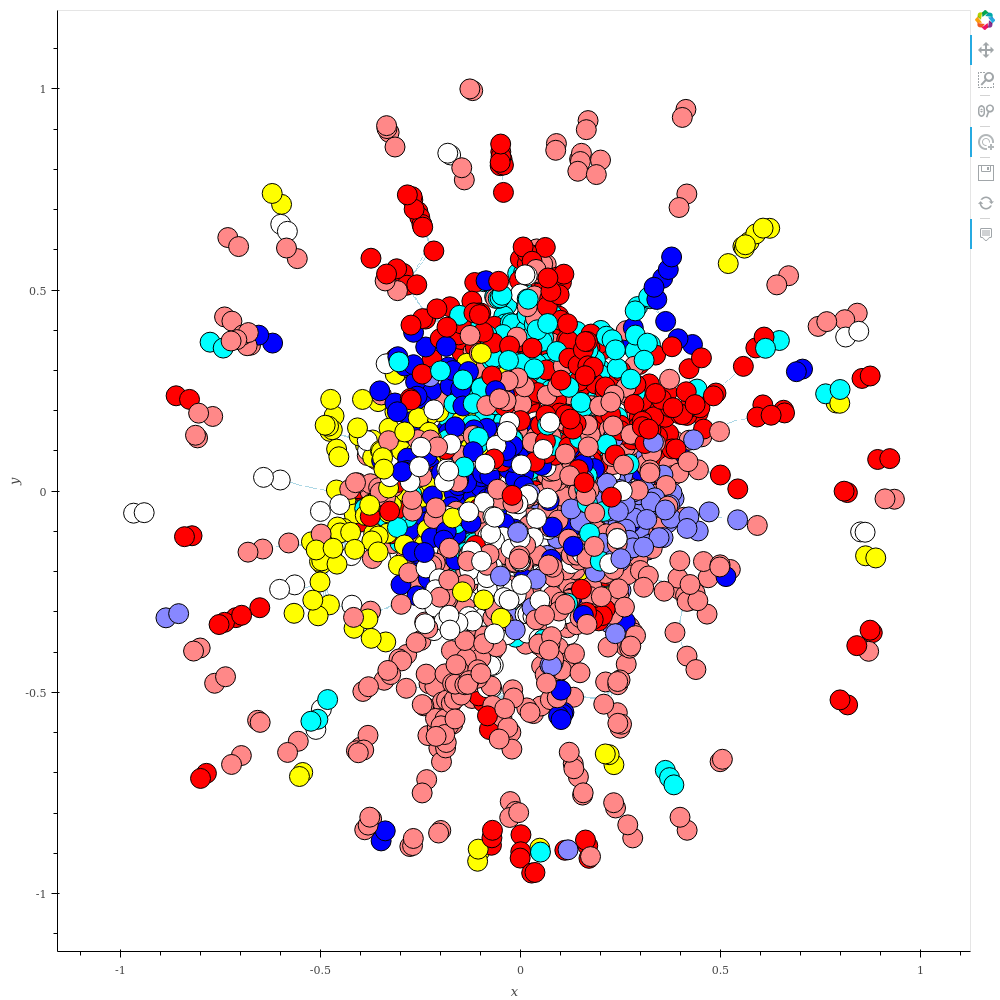
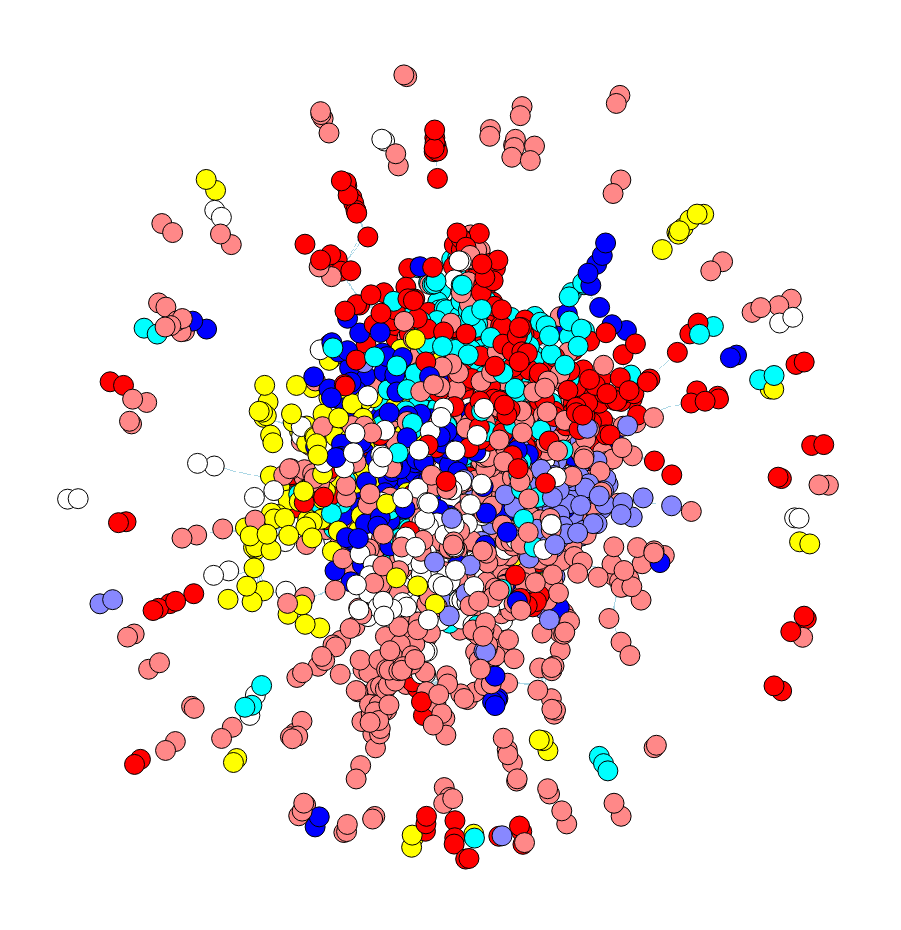
Updates dataset images and captions

diff --git a/final/introduction.tex b/final/introduction.tex
@@ -8,18 +8,24 @@ In a typical graph dataset, nodes have a set of features, called the \textit{fea
 
 \begin{figure}
 	\centering
-	\begin{subfigure}{0.4\textwidth} % width of left subfigure
+	\begin{subfigure}{0.32\textwidth} % width of left subfigure 
+		\includegraphics[width=\textwidth]{media/edges.png}
+		\caption{Visualization of the edges of the network.} % subcaption
+        \label{fig:dataset_edges}
+	\end{subfigure}
+	\vspace{1em} % here you can insert horizontal or vertical space
+	\begin{subfigure}{0.32\textwidth} % width of left subfigure
 		\includegraphics[width=\textwidth]{media/labels_only_train.png}
-		\caption{} % subcaption
+		\caption{Visualization of unlabled nodes in the network. It's clear that the vast majority of nodes are unlabled. This is the dataset our GCN will train on.} % subcaption
         \label{fig:dataset_all}
 	\end{subfigure}
 	\vspace{1em} % here you can insert horizontal or vertical space
-	\begin{subfigure}{0.4\textwidth} % width of right subfigure
+    \begin{subfigure}{0.32\textwidth} % width of right subfigure
 		\includegraphics[width=\textwidth]{media/labels_all.png}
-        \caption{} % subcaption
+        \caption{Visualization of the dataset with all labels. For our experiments, our dataset actually has all labels. We remove all but twenty labels per class for training to simulate the sparsity with which a "real-world" dataset would be labeled. We use all labels at test-time to evaluate the accuracy of our model.} % subcaption
         \label{fig:dataset_train}
 	\end{subfigure}
-	\caption{\ref{fig:dataset_all}} % caption for whole figure
+	\caption{Citeseer~\cite{} citation network visualization using the Fruchterman-Reingold force-directed algorithm. Even with a na\"ive drawing algorithm, clusers of equally-labeled nodes are visible. For this dataset, our goal is to recover \ref{fig:dataset_all} given \ref{fig:dataset_train}.} % caption for whole figure
 \end{figure}
 
 
